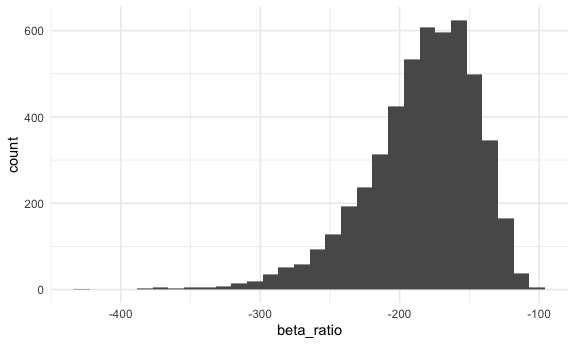
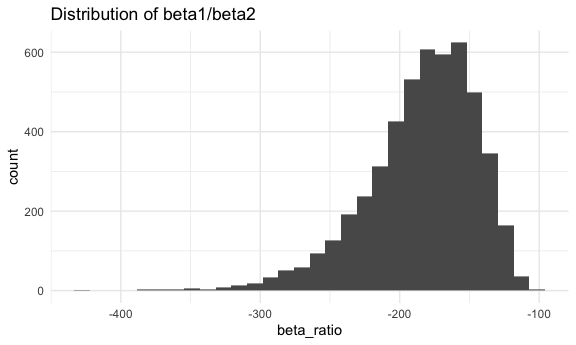
updating code and writing comments on plots

diff --git a/p8105_hw6_yh3824.md b/p8105_hw6_yh3824.md
@@ -44,16 +44,26 @@ variable
 
 ``` r
 homicide_df = 
-  homicide_df |> 
+  read_csv(file = "./data/homicide-data.csv") |> 
+  janitor::clean_names() |> 
     mutate(
-      city_state = paste(city, state, sep = ", "),
+      city_state = str_c(city, ", ", state),
       victim_age = as.numeric(victim_age),
-      resolved = if_else(str_detect(disposition, "Closed"), 1, 0) 
+      resolved = as.numeric(disposition == "Closed by arrest") 
     ) |> 
   filter(!city_state %in% c("Dallas, TX", "Phoenix, AZ", "Kansas City, MO", "Tulsa, AL"),
-         victim_race %in% c("White", "Black"),
-         is.numeric(victim_age)) 
+         victim_race %in% c("White", "Black")) |>
+  select(city_state, resolved, victim_age, victim_sex, victim_race)
 ```
+
+    ## Rows: 52179 Columns: 12
+    ## ── Column specification ────────────────────────────────────────────────────────
+    ## Delimiter: ","
+    ## chr (9): uid, victim_last, victim_first, victim_race, victim_age, victim_sex...
+    ## dbl (3): reported_date, lat, lon
+    ## 
+    ## ℹ Use `spec()` to retrieve the full column specification for this data.
+    ## ℹ Specify the column types or set `show_col_types = FALSE` to quiet this message.
 
     ## Warning: There was 1 warning in `mutate()`.
     ## ℹ In argument: `victim_age = as.numeric(victim_age)`.
@@ -67,40 +77,46 @@ baltimore_df =
   homicide_df |> 
     filter(city_state == "Baltimore, MD") 
 
-fit = lm(resolved ~ victim_age + victim_sex + victim_race, data = baltimore_df) |> 
-  broom::tidy()
+baltimore_glm = glm(resolved ~ victim_age + victim_sex + victim_race, data = baltimore_df, family = binomial()) 
+
+baltimore_glm |> 
+  broom::tidy(conf.int = TRUE) |> 
+  filter(term == "victim_sexMale") |> 
+  mutate(
+    odds_ratio = exp(estimate),
+    conf_low = exp(conf.low),
+    conf_high = exp(conf.high)
+  ) |> 
+  select(odds_ratio, conf_low, conf_high) |> 
+  knitr::kable(digits = 3)
 ```
 
-write a function `lm` for all cities
+| odds_ratio | conf_low | conf_high |
+|-----------:|---------:|----------:|
+|      0.426 |    0.324 |     0.558 |
+
+write a function for all cities
 
 ``` r
-lm_resolved = function(df) {
+glm_resolved = function(df) {
   
-  lm(resolved ~ victim_age + victim_sex + victim_race, data = df)
+  model = glm(resolved ~ victim_age + victim_sex + victim_race, data = df, family = binomial())
+
 }
 
 homicide_df |> 
   filter(city_state == "Baltimore, MD") |> 
-  lm_resolved() |> 
-  broom::tidy()
+  glm_resolved() 
 ```
 
-    ## # A tibble: 4 × 5
-    ##   term             estimate std.error statistic  p.value
-    ##   <chr>               <dbl>     <dbl>     <dbl>    <dbl>
-    ## 1 (Intercept)       0.654    0.0399       16.4  1.19e-57
-    ## 2 victim_age       -0.00118  0.000751     -1.57 1.17e- 1
-    ## 3 victim_sexMale   -0.247    0.0327       -7.55 6.10e-14
-    ## 4 victim_raceWhite  0.209    0.0409        5.10 3.69e- 7
-
-iterate to fit a model for each city
+iterate model for each city
 
 ``` r
-resolved_lm_results =
+resolved_glm_results =
   homicide_df |> 
   nest(data = -city_state) |> 
   mutate(
-    fits = map(data, lm_resolved),
+    fits = map(data, glm_resolved),
     results = map(fits, ~ broom::tidy(.x, conf.int = TRUE) |> 
                     mutate(
                       odds_ratio = exp(estimate),
@@ -111,14 +127,40 @@ resolved_lm_results =
   select(city_state, results) |> 
   unnest(results) |> 
   filter(term == "victim_sexMale") |> 
-  select(city_state, term, odds_ratio, or_low, or_high, everything())
+  select(city_state, odds_ratio, or_low, or_high)
 ```
+
+    ## Warning: There were 45 warnings in `mutate()`.
+    ## The first warning was:
+    ## ℹ In argument: `results = map(...)`.
+    ## Caused by warning:
+    ## ! glm.fit: fitted probabilities numerically 0 or 1 occurred
+    ## ℹ Run `dplyr::last_dplyr_warnings()` to see the 44 remaining warnings.
+
+``` r
+resolved_glm_results
+```
+
+    ## # A tibble: 47 × 4
+    ##    city_state      odds_ratio or_low or_high
+    ##    <chr>                <dbl>  <dbl>   <dbl>
+    ##  1 Albuquerque, NM      1.77   0.825   3.76 
+    ##  2 Atlanta, GA          1.00   0.680   1.46 
+    ##  3 Baltimore, MD        0.426  0.324   0.558
+    ##  4 Baton Rouge, LA      0.381  0.204   0.684
+    ##  5 Birmingham, AL       0.870  0.571   1.31 
+    ##  6 Boston, MA           0.674  0.353   1.28 
+    ##  7 Buffalo, NY          0.521  0.288   0.936
+    ##  8 Charlotte, NC        0.884  0.551   1.39 
+    ##  9 Chicago, IL          0.410  0.336   0.501
+    ## 10 Cincinnati, OH       0.400  0.231   0.667
+    ## # ℹ 37 more rows
 
 create a plot that shows estimate ORs and CIs for each city, organize
 cities according to estimate OR
 
 ``` r
-resolved_lm_results |> 
+resolved_glm_results |> 
   mutate(
       city_state = fct_reorder(city_state, odds_ratio), y = odds_ratio) |> 
   ggplot(aes(x = city_state, y = odds_ratio)) +
@@ -136,7 +178,15 @@ resolved_lm_results |>
 
 ### Comments on Plot
 
-xxxx
+When looking at the 50 large U.S. cities, Albuquerque, NM has the
+highest estimated odds ratios (OR = 1.77, 95% CI: 0.825, 3.76) for
+homicides being resolved when comparing male to female victims. New
+York, NY has the lowest estimated odds ratio (OR = 0.262, 95% CI: 0.133,
+0.485). There does not appear to be any sort of geographic trend for the
+odds ratios, but most cities have an odds ratio of less than 1. Just by
+looking at the plot, approximately 24 cities have a 95% confidence
+interval that crosses the null of 1, indicating that the odds ratio is
+insignificant. This includes the highest value of Albuquerque, NM.
 
 ## Problem 2
 
@@ -201,19 +251,31 @@ plot the distribution of r_squared
 ``` r
 weather_sample |> 
   ggplot(aes(x = r_squared)) +
-  geom_histogram()  
+  geom_histogram() +
+  labs(
+    title = "Distibution of R squared"
+  )
 ```
 
     ## `stat_bin()` using `bins = 30`. Pick better value with `binwidth`.
 
 <img src="p8105_hw6_yh3824_files/figure-gfm/unnamed-chunk-12-1.png" width="90%" />
 
+### Comments
+
+The distribution of r-squared appears to be approximately normally
+distributed with the center falling at around 0.92. The range appears to
+be between 0.93, 0.95.
+
 plot the distribution of beta_1/beta_2
 
 ``` r
 weather_sample |> 
   ggplot(aes(x = beta_ratio)) +
-  geom_histogram() 
+  geom_histogram() +
+  labs(
+    title = "Distribution of beta1/beta2"
+  )
 ```
 
     ## `stat_bin()` using `bins = 30`. Pick better value with `binwidth`.
@@ -222,7 +284,8 @@ weather_sample |>
 
 ### Comments
 
-xxx
+The distribution of the beta1/beta2 proportion appears to be left
+skewed, with a peak at around -175 and a range between -400, -100.
 
 identify 2.5% and 97.5% quantiles to find 95% confidence intervals for
 r_squared
@@ -233,12 +296,12 @@ weather_sample |>
     r_sq_lower_ci = quantile(r_squared, 0.025),
     r_sq_upper_ci = quantile(r_squared, 0.975)
   ) |> 
-  knitr::kable()
+  knitr::kable(digits = 3)
 ```
 
 | r_sq_lower_ci | r_sq_upper_ci |
 |--------------:|--------------:|
-|     0.9343767 |     0.9466277 |
+|         0.934 |         0.947 |
 
 identify 2.5% and 97.5% quantiles to find 95% confidence intervals for
 beta_1/beta_2
@@ -298,39 +361,64 @@ clean_birthwgt |>
 
 <img src="p8105_hw6_yh3824_files/figure-gfm/unnamed-chunk-17-1.png" width="90%" />
 
-propose a model for birthweight
+Propose a model:
 
 ``` r
-proposed_model = lm(bwt ~ gaweeks + momage + smoken + babysex + mrace, data = clean_birthwgt)
+proposed_model = lm(bwt ~ gaweeks + bhead + blength + babysex + momage + smoken + mrace, data = clean_birthwgt)
 
 summary(proposed_model)
 ```
 
     ## 
     ## Call:
-    ## lm(formula = bwt ~ gaweeks + momage + smoken + babysex + mrace, 
-    ##     data = clean_birthwgt)
+    ## lm(formula = bwt ~ gaweeks + bhead + blength + babysex + momage + 
+    ##     smoken + mrace, data = clean_birthwgt)
     ## 
     ## Residuals:
     ##      Min       1Q   Median       3Q      Max 
-    ## -1626.93  -275.91     3.59   279.23  1642.51 
+    ## -1130.43  -188.07    -7.75   176.99  2440.90 
     ## 
     ## Coefficients:
-    ##                    Estimate Std. Error t value Pr(>|t|)    
-    ## (Intercept)        940.2888    94.7187   9.927  < 2e-16 ***
-    ## gaweeks             59.9750     2.1735  27.594  < 2e-16 ***
-    ## momage               1.7537     1.8674   0.939  0.34774    
-    ## smoken             -11.0284     0.9394 -11.740  < 2e-16 ***
-    ## babysexfemale      -93.5228    13.4787  -6.939 4.55e-12 ***
-    ## mraceBlack        -279.2307    15.4684 -18.052  < 2e-16 ***
-    ## mraceAsian        -194.5913    68.7856  -2.829  0.00469 ** 
-    ## mracePuerto Rican -181.7870    30.3812  -5.984 2.36e-09 ***
+    ##                     Estimate Std. Error t value Pr(>|t|)    
+    ## (Intercept)       -5815.2659   102.6441 -56.655  < 2e-16 ***
+    ## gaweeks              12.2361     1.4851   8.239 2.27e-16 ***
+    ## bhead               135.8823     3.4968  38.859  < 2e-16 ***
+    ## blength              78.7598     2.0370  38.664  < 2e-16 ***
+    ## babysexfemale        31.8031     8.6257   3.687  0.00023 ***
+    ## momage                1.3069     1.1728   1.114  0.26522    
+    ## smoken               -4.2241     0.5957  -7.092 1.54e-12 ***
+    ## mraceBlack         -135.0985     9.8705 -13.687  < 2e-16 ***
+    ## mraceAsian         -121.6660    43.1940  -2.817  0.00487 ** 
+    ## mracePuerto Rican  -134.7109    19.1054  -7.051 2.06e-12 ***
     ## ---
     ## Signif. codes:  0 '***' 0.001 '**' 0.01 '*' 0.05 '.' 0.1 ' ' 1
     ## 
-    ## Residual standard error: 443 on 4334 degrees of freedom
-    ## Multiple R-squared:  0.2531, Adjusted R-squared:  0.2519 
-    ## F-statistic: 209.8 on 7 and 4334 DF,  p-value: < 2.2e-16
+    ## Residual standard error: 278.1 on 4332 degrees of freedom
+    ## Multiple R-squared:  0.7057, Adjusted R-squared:  0.7051 
+    ## F-statistic:  1154 on 9 and 4332 DF,  p-value: < 2.2e-16
+
+In my predicted model I included gestational age in weeks, baby head
+circumference at birth, baby length at birth, baby sex, mother’s age at
+delivery, mother’s race, and average number of cigarettes smoked per day
+during pregnancy.
+
+I picked these variables for both statistical reasoning and existing
+evidence. I initially included gestational age, baby head circumference,
+and baby length due to the fact that a baby with a larger head
+circumference and length are more likely to weight more. Additionally,
+pre-term babies will be lighter in comparison to full term babies, so it
+would make sense to include this as a predictor. There is existing
+evidence that indicates maternal health and associated demographic
+factors also influence birthweight, so the variables of smoking and race
+were also included.
+
+I tested multiple models including these variables and others to
+determine which one would be most “optimal” to model birthweight, but
+other models did not show significant differences in p-value and
+R-squared, which indicated to me that they did not significantly impact
+the model. In order to keep the model parsimonious, I decided on
+including `gaweeks`, `bhead`, `blength`, `babysex`, `momage`, `smoken`,
+and `mrace`.
 
 residual and predicted plot
 
@@ -340,11 +428,13 @@ clean_birthwgt |>
   add_residuals(proposed_model) |> 
   ggplot(aes(x = pred, y = resid)) +
   geom_point(alpha = 0.5) +
-  geom_hline(yintercept = 0) +
-  geom_smooth(method = "loess", se = FALSE)
+  geom_hline(yintercept = 0, color = "blue") +
+  labs(
+    title = "Residuals vs. Predicted",
+    x = "Predicted Value",
+    y = "Residuals"
+  )
 ```
-
-    ## `geom_smooth()` using formula = 'y ~ x'
 
 <img src="p8105_hw6_yh3824_files/figure-gfm/unnamed-chunk-19-1.png" width="90%" />
 
@@ -373,7 +463,7 @@ cross_validate =
 cross_validate = 
   cross_validate |> 
   mutate(
-    proposed = map(train, \(df) lm(bwt ~ gaweeks + bhead + blength + malform + smoken + babysex + mrace + ppwt + wtgain, data = clean_birthwgt)),
+    proposed = map(train, \(df) lm(bwt ~ gaweeks + bhead + blength + momage + smoken + babysex + mrace, data = clean_birthwgt)),
     main_effect = map(train, \(df) lm(bwt ~ gaweeks + blength, data = clean_birthwgt)),
     interaction = map(train, \(df) lm(bwt ~ bhead * blength * babysex, data = clean_birthwgt))
   ) |> 
@@ -400,3 +490,10 @@ cross_validate |>
 ```
 
 <img src="p8105_hw6_yh3824_files/figure-gfm/unnamed-chunk-23-1.png" width="90%" />
+
+It appears that my proposed model has the lowest RMSE, which could
+indicate that it will be thebest at predicting baby’s birthweight in
+comparison to the other 2 models. The interaction model also has pretty
+low RMSE, so it could also adequately predict birthweight. However the
+main effect model performs the worst in accurately predicting
+birthweight.
